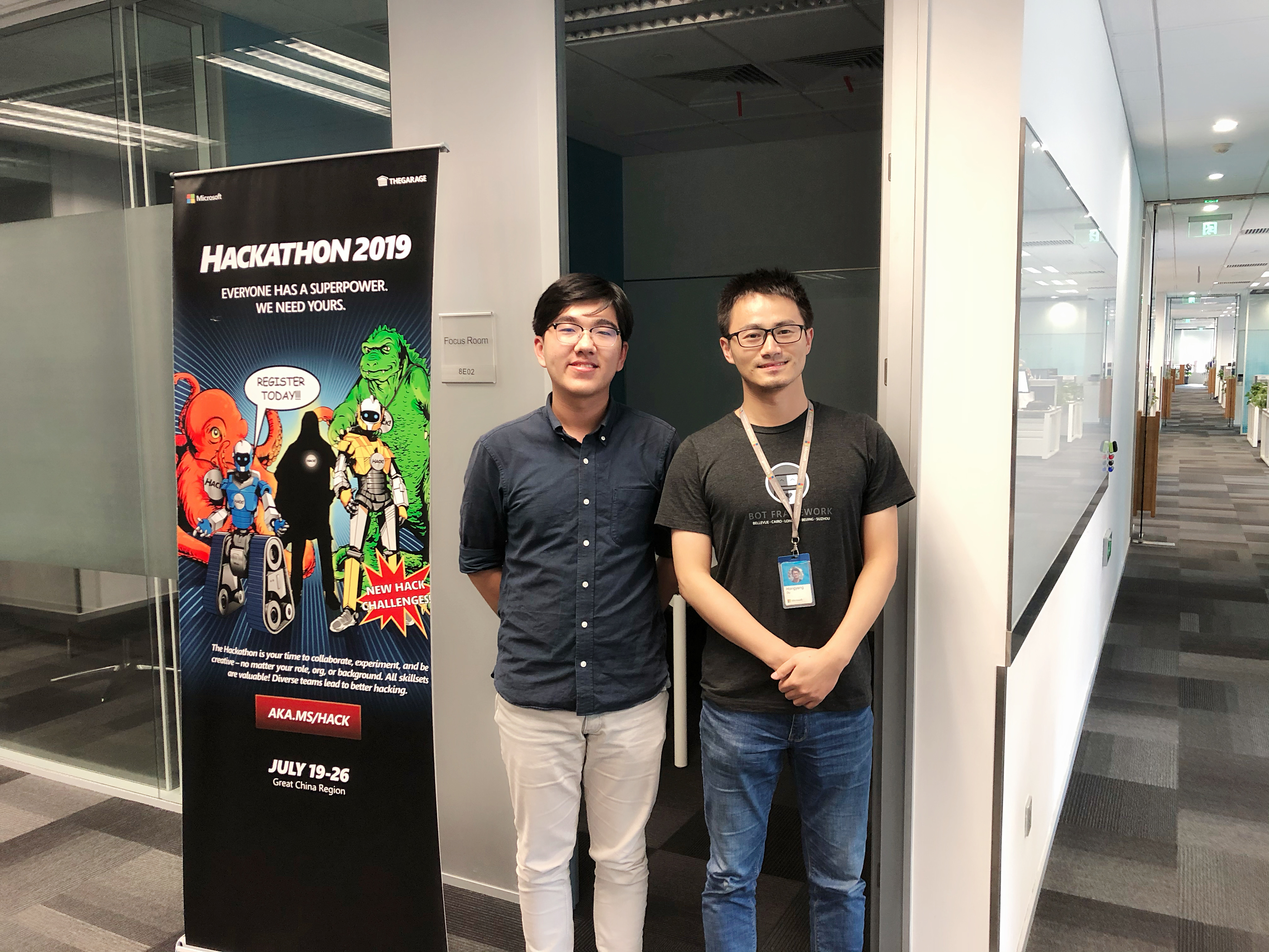
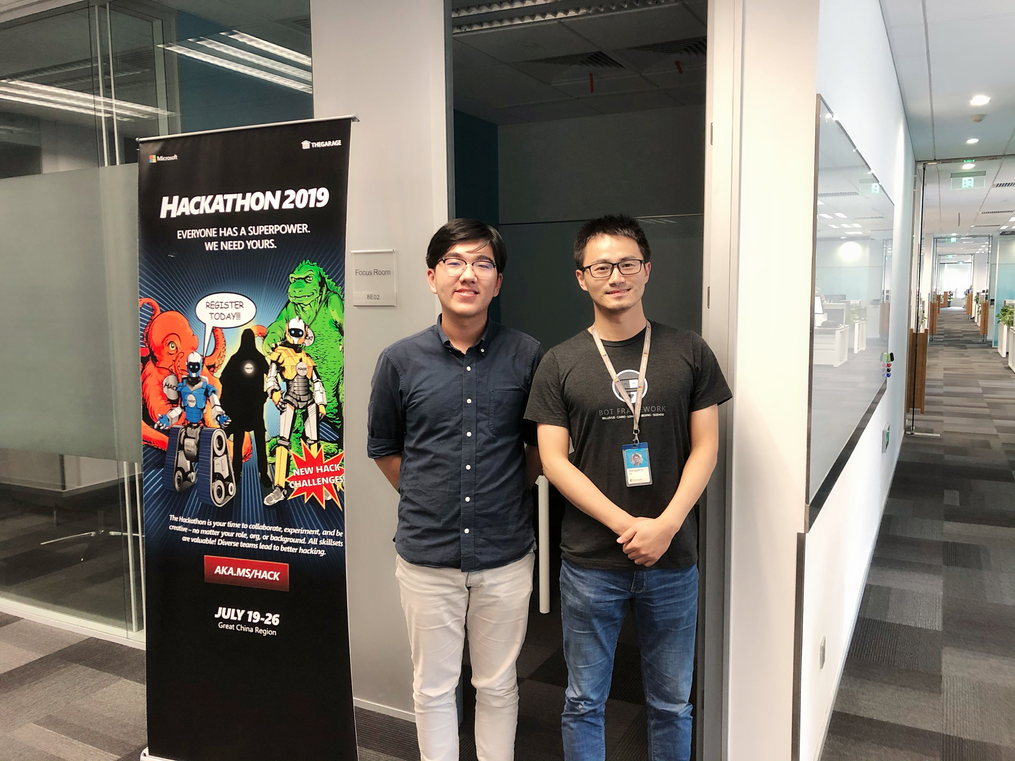
image, about

Changed region(s): [[0.8992, 0.31, 0.9302, 0.4341]]

diff --git a/_pages/about.md b/_pages/about.md
@@ -9,9 +9,10 @@ redirect_from:
 ---
 
 * I am a undergraduate student major in Information Security in the [School of Cyber Science and Engineering](http://infosec.sjtu.edu.cn/) at [Shanghai Jiao Tong University](http://en.sjtu.edu.cn/)
-* This is my up-to-date CV and you can contact me at here.
+* This is my up-to-date CV and you can contact me at [here](http://haocheng-han.github.io/contact/).
 * My research interest and internship experience mainly lies in NLP, including conversational AI, text analysis and semantic network.
 
-# Recent news
-* Oct.2019 I finish my internship at Microsoft STCA Suzhou. You can see here for my report and tech blog.
+## Recent news
+
+* Oct.2019 I finish my internship at Microsoft STCA Suzhou. You can view my [report](http://haocheng-han.github.io/posts/2019/09/InternReport/) and tech [blog](http://haocheng-han.github.io/posts/2019/09/LinkGrammar/). Also, there are some photos at [here](http://haocheng-han.github.io/photo/).
 * July.2019 I start my internship at Microsoft STCA Suzhou and my group focuses on [Bot Framework](https://dev.botframework.com/), my manager is [Greg Sun](https://www.linkedin.com/in/gregsun/).

diff --git a/_posts/2019-09-27-InternReport.md b/_posts/2019-09-27-InternReport.md
@@ -8,4 +8,4 @@ tags:
   - Microsoft
 ---
 
-This is my intern final [report](http://haocheng-han.github.io/files/Intern_Report_at_Microsoft.pdf) at Microsoft at 09/27/2019. It includes the project I did during my intern at Microsoft and a brief introduction about Link Grammar. 
+This is my intern final [report](http://haocheng-han.github.io/files/Intern_Report_at_Microsoft.pdf) at Microsoft at 09/27/2019. It includes the project I did during my intern at Microsoft and a brief introduction about Link Grammar.

diff --git a/_pages/contact.md b/_pages/contact.md
@@ -6,6 +6,8 @@ permalink: /contact/
 author_profile: true
 ---
 
-Room210, Building X18, Shanghai Jiao Tong University, Shanghai, 200240, P.R. China<br>
+Room210, Building X18, Shanghai Jiao Tong University, Shanghai, 200240, P.R. China
+
 Email: hhc7588 [at] sjtu.edu.cn
+
 Phone: (+86) 138-519-22908
